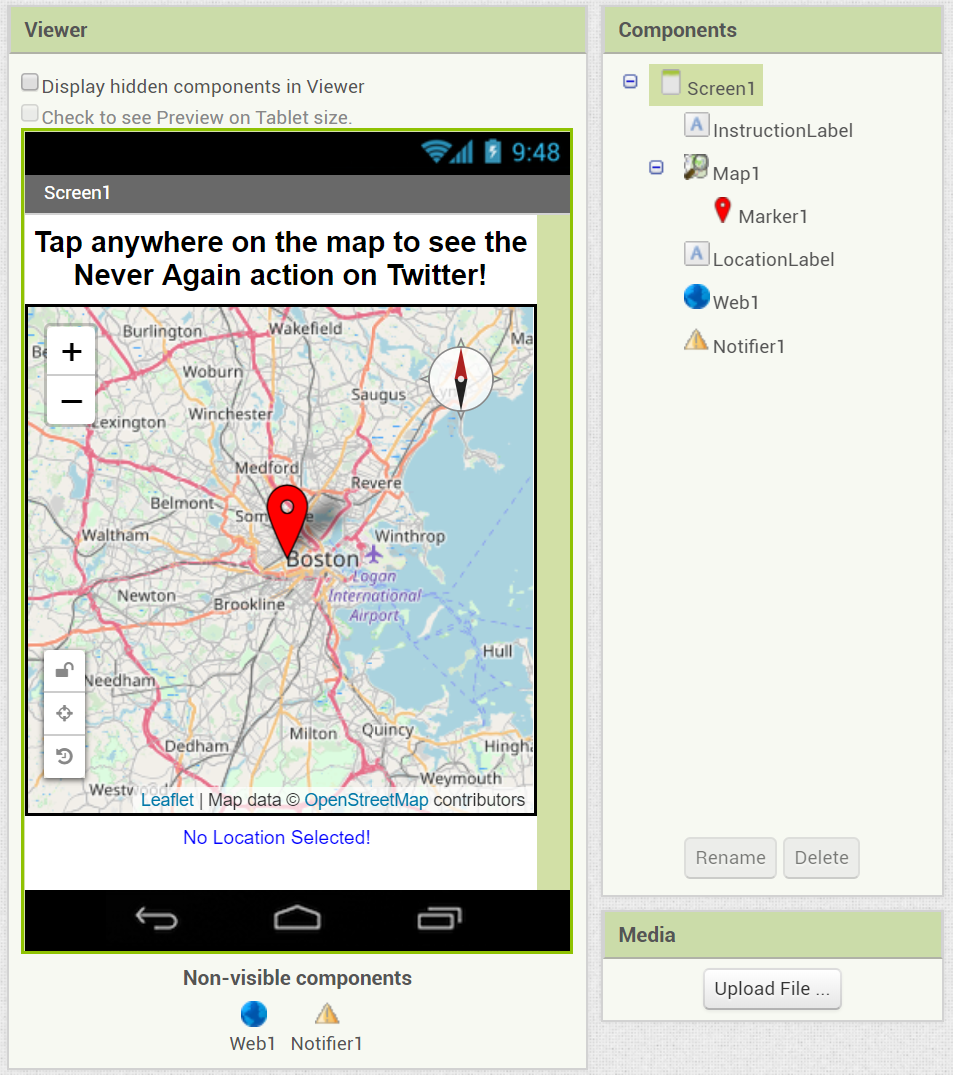
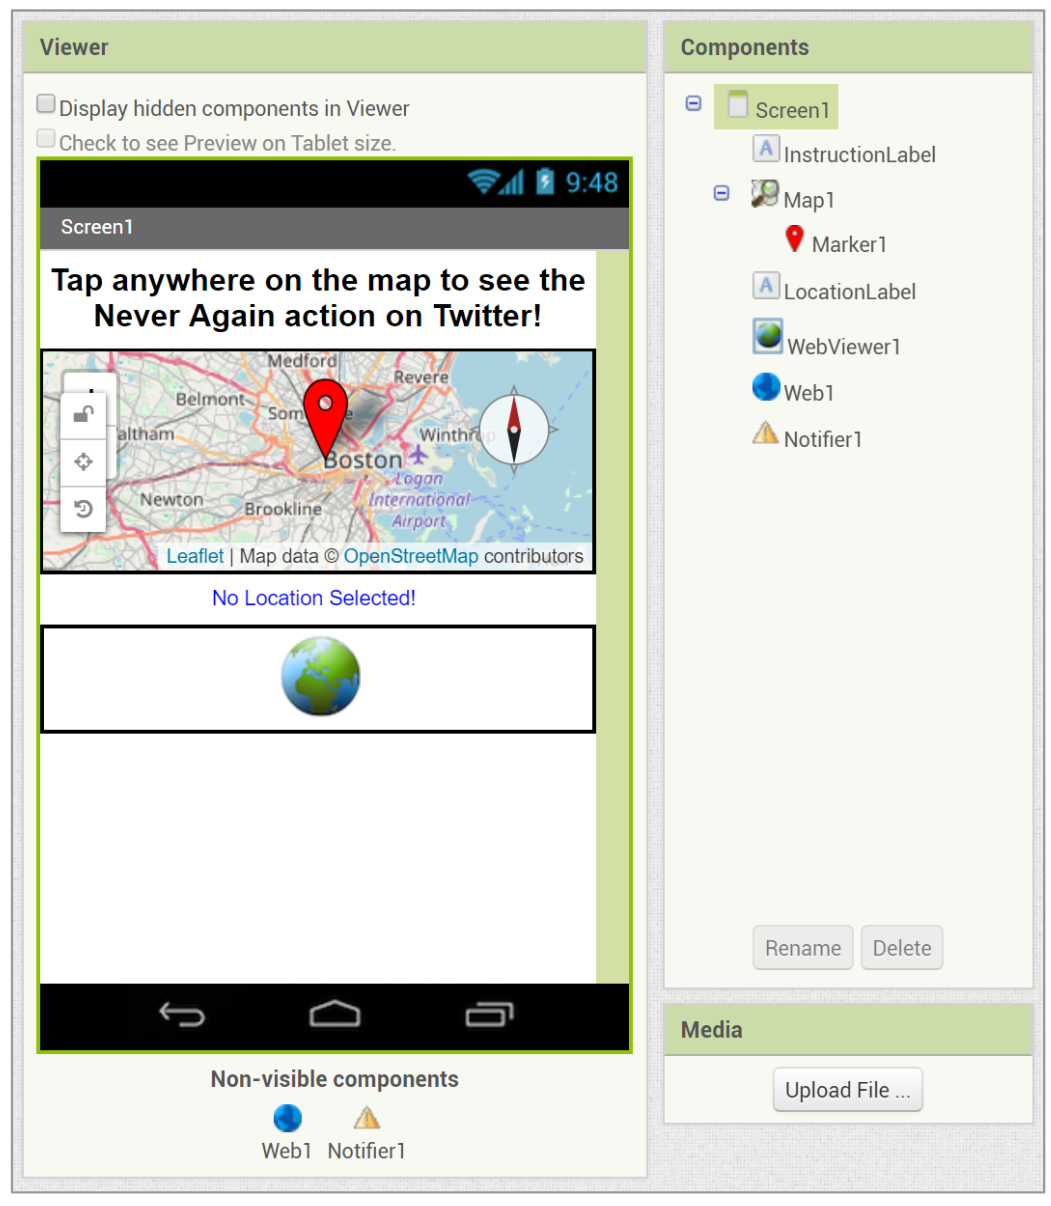
New Map The Movement changes requested by Asha

diff --git a/yr/tutorials/mapTheMovement.html b/yr/tutorials/mapTheMovement.html
@@ -34,7 +34,7 @@
     <div>
       <p>On the street, at government offices, and via social media: young people are calling for gun control on a national scale. The movement is everywhere, and we’ve tracked the story from its tragic beginnings to the latest call to action.</p>
       <p>Youth Radio has created an <a href="https://yri.youthradio.org/neveragain/" target="blank"> interactive, real-time tracker</a> of the #NeverAgain movement. </p>
-      <p>You're challenged with creating an app that shows what's happening on Twitter in any given location on a map.</p>
+      <p>You're challenged with creating an app that shows what's happening on Twitter in any given location on a map. Tapping on the map will show any #NeverAgain tweets from that location (i.e., tweets that have both #NeverAgain and #Boston).</p>
       <p>Click connect your app to start building your app!</p>
     </div>
 
@@ -48,9 +48,9 @@
       <div class="tutorialContentPage">
         <h3>Add Components</h3>
         <p>We've started with a blank app, and need to add components.</p>
-        <p>From the User Interface palette, drag in two <span class="icon" alt="label"></span>Labels and a <span class="icon" alt="notifier"></span>Notifier.</p>
+        <p>From the User Interface palette, drag in two <span class="icon" alt="label"></span>Labels, a <span class="icon" alt="notifier"></span>Notifier, and a <span class="icon" alt="webviewer"></span>WebViewer.</p>
         <p>Rename the labels to <b>InstructionLabel</b> and <b>LocationLabel</b>. </p>
-        <p>From the Maps palette, drag in a <span class="icon" alt="map"></span>Map component, and a <span class="icon" alt="marker"></span>Marker component.</p>
+        <p>From the Maps palette, drag in a <span class="icon" alt="map"></span>Map component, and a <span class="icon" alt="marker"></span>Marker component. Make sure the WebViewer component is at the bottom of the app.</p>
         <p>Finally, from the Connectivity palette, drag in a <span class="icon" alt="web"></span>Web component.</p>
         <img class="enlargeImage" src="../images/map_the_movement/componentslist.png" alt="some_text">
       </div>
@@ -59,9 +59,19 @@
         <h3>Modify Component Properties</h3>
         <p>Change the text of the <b>InstructionLabel</b> to say 'Tap anywhere on the map to see the Never Again action on Twitter!'</p>
         <p>Change the text of the <b>LocationLabel</b> to say 'No Location Selected!'</p>
-        <p>Experiment with the text properties of the two labels until you find something you like. Adjust the map to a comfortable size as well. A sample layout is shown below.</p>
+        <p>Experiment with the text properties of the two labels until you find something you like. Adjust the map and webviewer to comfortable sizes as well. A sample layout is shown below.</p>
         <p>Remember, to center all components, set the <em>AlignHorizontal</em> propery of Screen1 to Center!</p>
         <img class="enlargeImage" src="../images/map_the_movement/samplelayout.png" alt="some_text">
+      </div>
+
+      <div class="tutorialContentPage">
+        <h3>Change "AboutScreen" Property</h3>
+        <p>In the Screen1 properties, there's something called <em>AboutScreen</em>. </p>
+        <img class="enlargeImage" src="../images/map_the_movement/aboutscreen.png" alt="some_text">
+        <p>Let's use that to give instructions on how to use this app. </p>
+        <p>Fill in the property with something like: "Click anywhere on the map. #NeverAgain tweets from that location will appear below! Scroll to see more tweets."</p>
+        <p>You can access the "About Screen" information by clicking on the three dots icon, highlighted in the below screenshot, and then clicking "About this application".</p>
+        <img class="enlargeImage" src="../images/map_the_movement/aboutscreenshot.png" alt="some_text">
       </div>
 
       <div class="tutorialContentPage">
@@ -176,7 +186,7 @@
 
       <div class="tutorialContentPage">
         <h3>Test for Error</h3>
-        <p>Drag in an <span class="control">if then</span> block, and mutate it into an <span class="control">if then else</span> block.</p> 
+        <p>Drag in an <span class="control">if then</span> block, and mutate it into an <span class="control">if then else</span> block. Snap it in under the <span class="setters">set LocationLabel.Text</span> block we just built.</p> 
         <p>Drag out an <span class="logic">=</span> block from the <span class="icon" alt="logic"></span>Logic drawer.</p>
         <p>From the <span class="icon" alt="label"></span>LocationLabel drawer, drag out a <span class="getters">LocationLabel.Text</span> block and snap it into the first socket of the <span class="logic">=</span> block.</p>
         <p>Set the second socket of the <span class="logic">=</span> block to <span class="text">error</span>.</p>
@@ -185,40 +195,11 @@
       </div>
 
       <div class="tutorialContentPage">
-        <h3>Open New Screen</h3>
-        <p>If there's no error, then we can open a new screen to show tweets from the location that we parsed.</p>
-        <p>From the <span class="icon" alt="control"></span>Control drawer, drag in a <span class="control">open another screen with start value</span> block.</p>
-        <p>Set the <b>screenName</b> to <span class="text">WebScreen</span>.</p>
-        <p>Set the <b>startValue</b> to <span class="getters">LocationLabel.Text</span>.</p>.
-        <img class="enlargeImage" src="../images/map_the_movement/openanotherscreen.png" alt="some_text">
-      </div>
-
-      <div class="tutorialContentPage">
-        <h3>Create New Screen</h3>
-        <p>At the top right, click on "Add Screen". Call this new screen "WebScreen".</p>
-        <img class="enlargeImage" src="../images/map_the_movement/addnewscreen.png" alt="some_text">
-        <p>In the Designer, add two components: a Button, and a WebViewer (both under User Interface).</p>
-        <p>Rename the button to BackButton, and fill in the text to say "Go Back".</p>
-        <img class="enlargeImage" src="../images/map_the_movement/webscreen.png" alt="some_text">
-      </div>
-
-      <div class="tutorialContentPage">
-        <h3>Back Button</h3>
-        <p>Drag in a <span class="control">when BackButton.Click</span> block.</p>
-        <p>From the Control drawer, drag in a <span class="control">close screen</span> block, and snap it into the Back Button event handler.</p>
-        <img class="enlargeImage" src="../images/map_the_movement/backbutton.png" alt="some_text">
-      </div>
-
-      <div class="tutorialContentPage">
-        <h3>Web Screen Initialization</h3>
-        <p>From the WebScreen drawer, drag in a <span class="control">when WebScreen.Initialize</span> block.</p>
-        <p>From the <span class="icon" alt="webviewer"></span>WebViewer1 drawer, drag out a <span class="procedures">call WebViewer1.GoToUrl</span> block, and snap it in.</p>
-        <img class="enlargeImage" src="../images/map_the_movement/webinitialize.png" alt="some_text">
-      </div>
-
-      <div class="tutorialContentPage">
-        <h3>Fill in URL</h3>
-        <p>Drag out a <span class="text">join</span> block, and mutate it to have three sockets.</p>
+        <h3>Display Tweets!</h3>
+        <p>If there's no error, then we can show tweets from the location that we parsed.</p>
+        <p>Drag out a <span class="procedures">call WebViewer1.GoToUrl</span> block, and snap it into the <span class="control">else</span>.</p>
+        <img class="enlargeImage" src="../images/map_the_movement/gotourl1.png" alt="some_text">
+        <p>Drag out a <span class="text">join</span> block, and mutate it to have three sockets. Snap it into the <span class="procedures">GoToUrl</span> block.</p>
         <p>In the first socket, enter: <span class="text">https://m.twitter.com/search?q=%23NeverAgain%20%23</span>.</p>
         <p>In the third socket, enter: <span class="text">&src=typd</span>.</p>
         <p>For the second socket, we need to make sure that the location name doesn't have any spaces in it. We will do this in the next step.</p>
@@ -236,7 +217,7 @@
 
       <div class="tutorialContentPage">
         <h3>Test!</h3>
-        <p>When you tap on the map on the first screen, it should open the second screen with a list of #NeverAgain tweets from that location. Does your app work?</p>
+        <p>When you tap on the map, it should navigate to a list of #NeverAgain tweets from that location. Does your app work?</p>
         <img class="enlargeImage" src="../images/map_the_movement/finishedscreenshots.png" alt="some_text">
       </div>
 
@@ -248,6 +229,22 @@
 
   <h3>Expand your app</h3>
     <div>
+
+      <b>Change the Twitter search manually.</b>
+      <p>Remember where we put in "#NeverAgain" as a search term? Can you figure out how to search for a different hashtag?</p>
+
+      <b>Use a TextBox to change the search terms.</b>
+      <p>Now, rather than manually changing the code, what if you changed the hashtag to <a href="#" onclick="return goToHowToTutorial(0)" title="Use a TextBox">whatever is in a TextBox</a>?</p>
+
+      <b>Create a Button to switch to a random location.</b>
+      <p>You know how to use a Button. You know Latitude and Longitude. Can you figure out how to make a button that jumps to a random location?</p>
+
+      <b>Create Buttons to Zoom In or Zoom Out.</b>
+      <p>Play with the <a href="#" onclick="return goToHowToTutorial(1)" title="Map Properties">Map Properties</a> to figure out how to zoom in and out of the map. Can you make corresponding buttons?</p>
+
+      <b>Create Different Search Options.</b>
+      <p>Now that you know how to do a Twitter search, what other ways can you expand on this? Do you have to search via hashtag? What other search options can you use?</p>
+
     </div>
 
   <h3>Share your App</h3>
@@ -265,6 +262,13 @@
 </div>
 
 <div id="howToAccordion" class="accordion" style="display:none">
+
+  <h3>Use a TextBox</h3>
+  <div class="setup" id="textboxGeneric"></div>
+
+  <h3>Map Properties</h3>
+  <div class="setup" id="mapProperties"></div>
+
 </div>
 
 

diff --git a/yr/tutorials/howtos/mapProperties.html b/yr/tutorials/howtos/mapProperties.html
@@ -1,0 +1,45 @@
+<div class="tutorialContainer">
+ <div class="tutorialNavigationHeader"></div>
+
+ <div class="tutorialContentPage">
+  <h4>Map Component</h4>
+  <p>Click and drag a <span class='icon' alt='map'></span>Map to your Viewer.</p>  
+  <img class="enlargeImage" src="../images/howTos/mapViewer.png">
+  <p>There are a lot of options here! Let's go through what some of the properties mean.</p>
+</div>
+
+<div class="tutorialContentPage">
+  <h4>Map-Specific Properties</h4>
+  <p><em>CenterFromString</em> expects a latitude/longitude pair that the map centers at.</p>
+  <p><em>EnablePan</em> allows a user to drag the map around, or makes it stay static.</p>
+  <p>Similarly, <em>EnableRotation</em> lets the user spin the map around.</p>
+  <p><em>EnableZoom</em> allows the user to zoom in and out by pinching the map.</p>
+  <p><em>LocationSensor</em> allows you to connect to a separate <span class="icon" alt="locationsensor"></span>LocationSensor component.</p>
+  <p><em>MapType</em> allows you to select three map appearances: Roads, Aerial, and Terrain.</p>
+  <p><em>ShowCompass</em> shows a compass directly on the map.</p>
+  <p><em>ShowUser</em> shows the user's auto-detected location on the map.</p>
+  <p><em>ShowZoom</em> shows +/- zoom buttons directly on the map.</p>
+  <p><em>ZoomLevel</em> controls how zoomed in or out the map is.</p>
+</div>
+
+<div class="tutorialContentPage">
+  <h4>Event Blocks</h4>
+  <p>Here's a quick overview of the available event blocks.</p>
+  <p>"Feature" blocks (like <span class="control">when Map1.FeatureClick</span>) allow you to interact with any feature on the Map--usually a Marker.</p>
+  <p>Tap/Click blocks (like double tap, long press at point, and a few others) gauge various types of click events that can happen on the map.</p>
+  <img class="enlargeImage" src="../images/howTos/mapEvents.png">
+</div>
+
+<div class="tutorialContentPage">
+  <h4>Procedure Blocks</h4>
+  <p>Here's a quick overview of the available procedure (call) blocks.</p>
+  <p><span class="procedures">CreateMarker</span> will let you create a new Marker, and returns the new Marker. Potentially, you could save this new Marker in a list to use later. Can you think of a reason why you might do that? </p>
+  <p><span class="procedures">FeatureFromDescription</span> and <span class="procedures">LoadFromURL</span> are advanced and you probably won't find yourself using them much.</p>
+  <p><span class="procedures">PanTo</span> allows you to go to a different lat/long and zoom, anywhere on the map. It's a good way to quickly change where the map is looking at. Hint: It's very similar to changing the <em>CenterFromString</em> property. </p>
+  <p><span class="procedures">Save</span> lets you save the current map to your device storage.</p>
+  <img class="enlargeImage" src="../images/howTos/mapProcedures.png">
+  <p>The available getters and setters are the same as in any other component, so they are omitted here.</p>
+<div class="tutorialNextButtonContainer" style="width:100%;text-align:center;">
+  <button type="button" class="btn btn-success btn-lg tutorialNextButton" style="font-size:24pt;">Next Step</button>
+</div>
+</div>

diff --git a/yr/tutorials/howtos/textboxGeneric.html b/yr/tutorials/howtos/textboxGeneric.html
@@ -1,0 +1,29 @@
+<div class="tutorialContainer">
+ <div class="tutorialNavigationHeader"></div>
+
+ <div class="tutorialContentPage">
+  <h4>Add a TextBox</h4>
+  <p>Click and drag a <span class='icon' alt='textbox'></span>TextBox to your Viewer.</p>  
+  <img class="enlargeImage" src="../images/howTos/textboxPalette.png">
+  <p>Users can type into this TextBox.</p>
+</div>
+
+<div class="tutorialContentPage">
+  <h4>TextBox Properties</h4>
+  <p>TextBoxes have two properties that accept text: <em>Hint</em> and <em>Text</em>. </p>
+  <p>The <em>Text</em> property sounds just like what it is: You can enter text into the TextBox and it will show up in the box, just like a <span class='icon' alt='label'></span>Label.</p>
+  <p>The <em>Hint</em> does NOT show up in the Viewer, but in the Companion or in the compiled app, will show up as lightened text in the background of the TextBox. Any text added to the TextBox will wipe out the hint text.</p>
+  <img class="enlargeImage" src="../images/howTos/textboxProperties.png">
+</div>
+
+<div class="tutorialContentPage">
+  <h4>Getting TextBox Text</h4>
+  <p>TextBoxes allow users to type in their own text. User text will appear as <span class='getters'>TextBox.Text</span>.</p>
+  <p>But, what if the user hasn't entered any text? How can we test that the user has typed something in? We can use the <span class='text'>is empty?</span> block!</p>
+  <img class="enlargeImage" src="../images/howTos/ifTextboxEmpty.png">
+</div>
+
+<div class="tutorialNextButtonContainer" style="width:100%;text-align:center;">
+  <button type="button" class="btn btn-success btn-lg tutorialNextButton" style="font-size:24pt;">Next Step</button>
+</div>
+</div>
